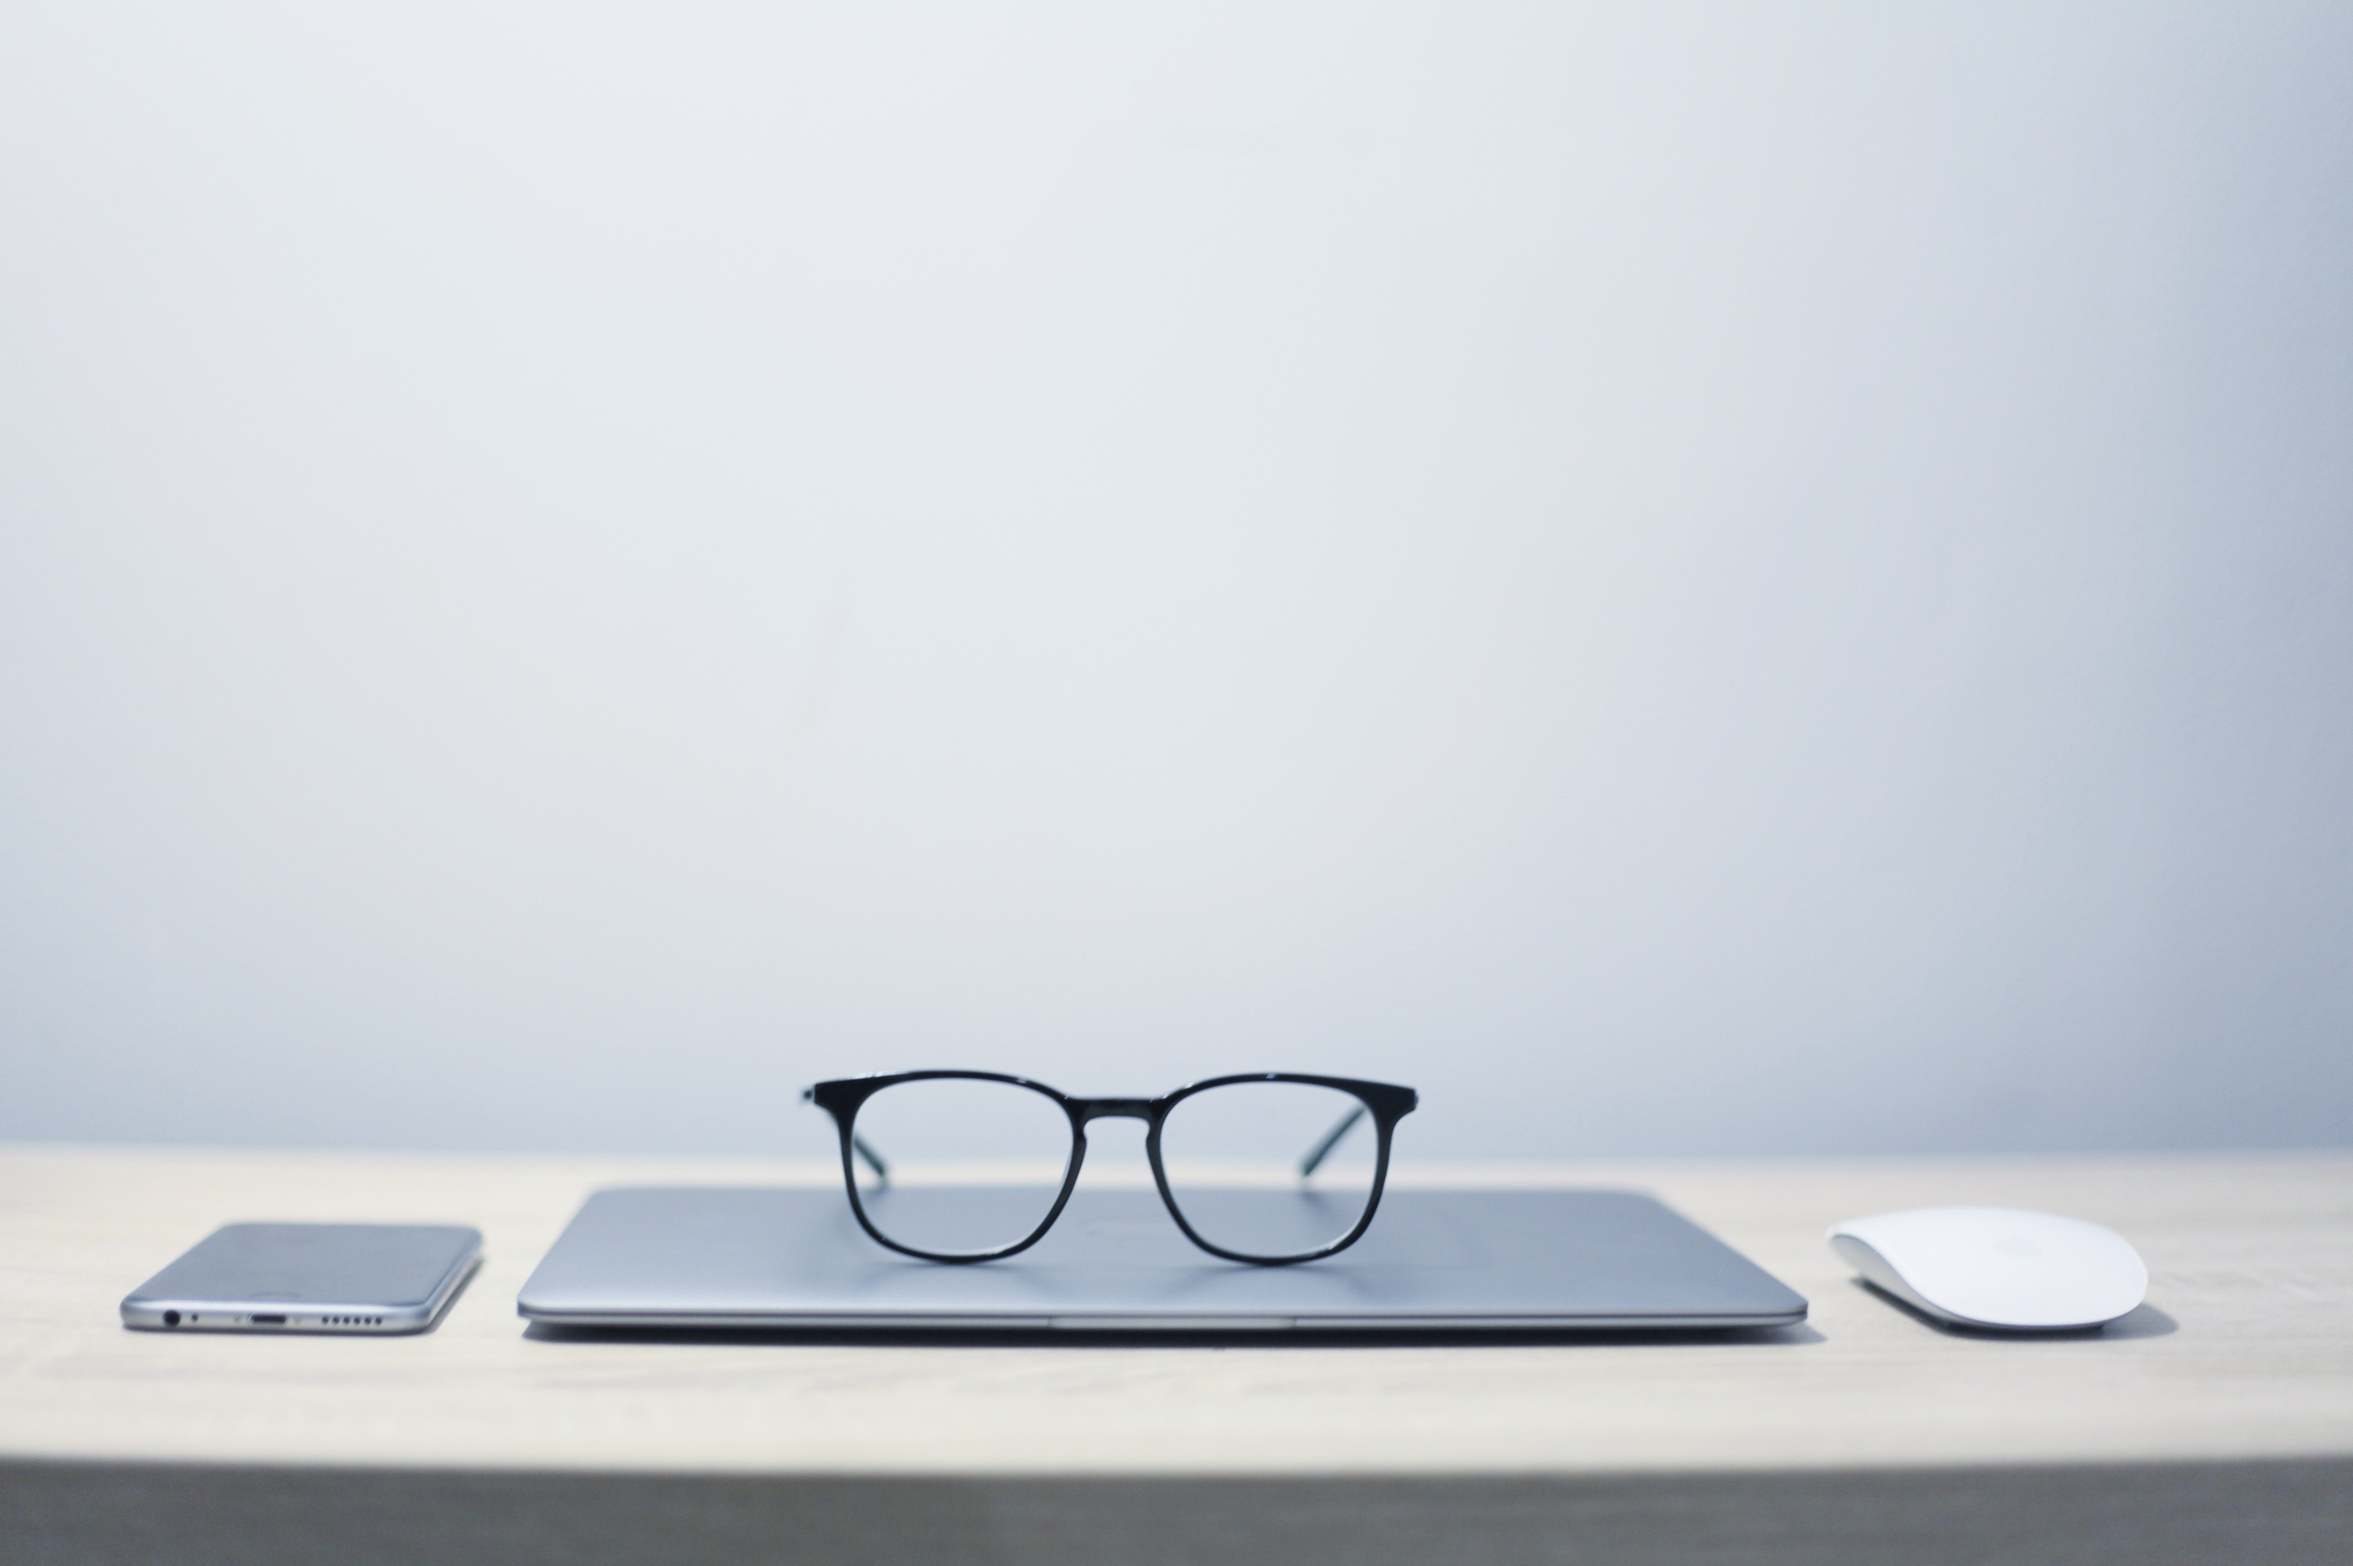
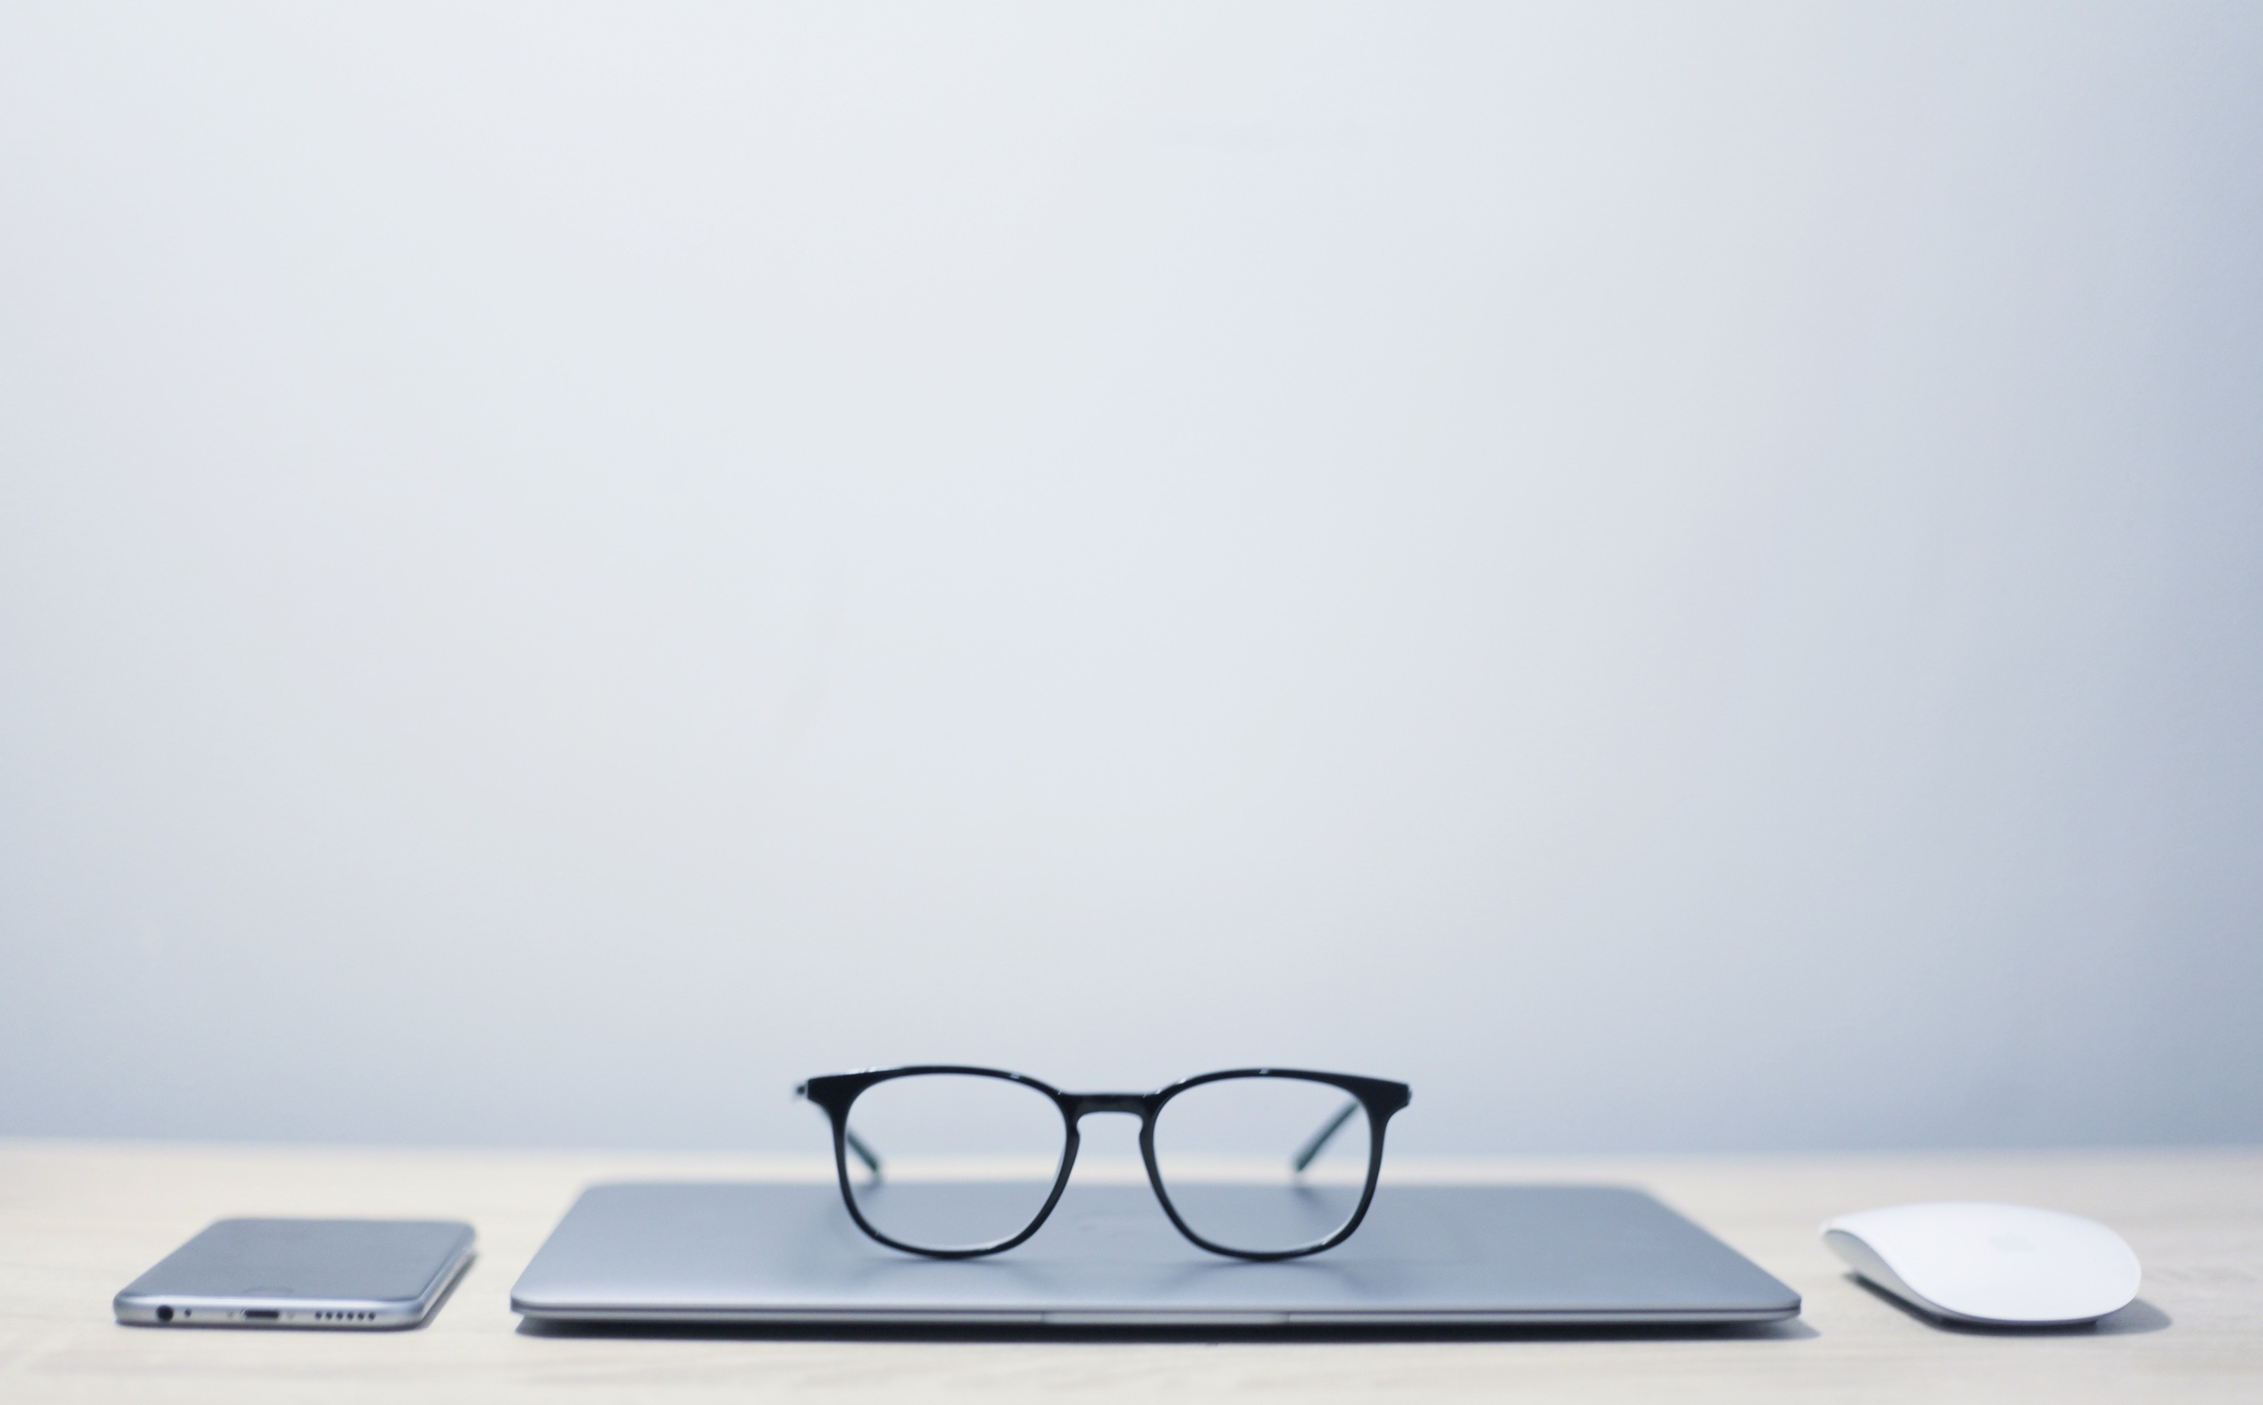
background focus on bottom

Changed region(s): [[0.0, 0.6833, 1.0, 1.0]]

diff --git a/assets/css/main.css b/assets/css/main.css
@@ -280,7 +280,7 @@ a:after {
 	padding-top:120px;
 	text-align:center;
 	background-attachment: relative;
-	background-position: center center;
+	background-position: center bottom;
 	min-height: 650px;
 	width: 100%;
 
@@ -671,9 +671,14 @@ a:after {
 }
 .profile-pic{
   height: 30vh;
+  /* border: 10px solid black; */
+  box-shadow: 1px 7px 12px 0px black;;
+  border-radius: 50%;
+  overflow: hidden;
+
 }
 .profile-title {
   display: flex;
   align-items: center;
-  justify-content: center;
+  justify-content: space-evenly;
 }
